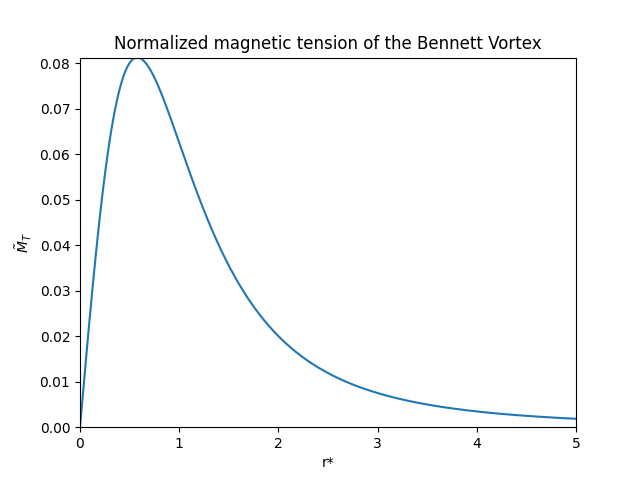
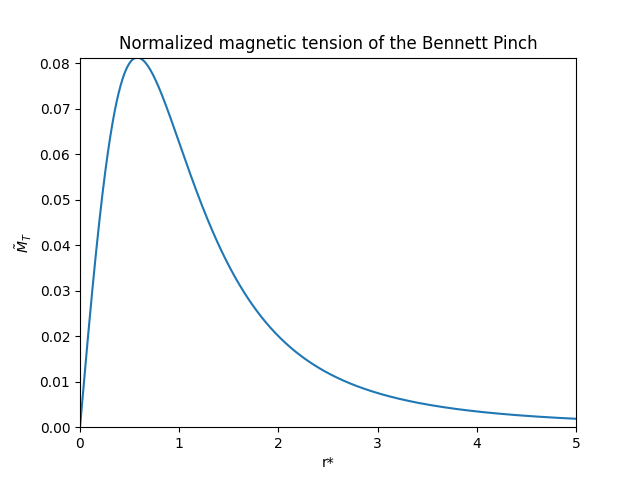
Fixing issue in python-based equilibrium cals

Changed region(s): [[0.1562, 0.0625, 0.8438, 0.125]]

diff --git a/python/bennett-vorticity/shear_flow.py b/python/bennett-vorticity/shear_flow.py
@@ -1,25 +1,27 @@
 import numpy as np
 import matplotlib.pyplot as plt
 
-'''
-Obtains plots for Bennett Vortex profiles
+r'''
+Obtains plots for Bennett Pinch profiles
 -
-PLEASE NOTE that \xi^{2} is related to an inverse temperature.  
+PLEASE note that \xi^{2} is related to an inverse temperature.  
 '''
+
 r_star = np.linspace(0.0, 5.0, num=1000)
 
+# All wrong because \\xi^{2} is no longer uniform
 # Normalized shear flow profile
-dudr = (r_star) / (1 + r_star**2)**3 # normalized by 4\xi
+# dudr = (r_star) / (1 + r_star**2)**3 # normalized by 4\xi
 
-shear_fig, shear_ax = plt.subplots()
-shear_ax.plot(r_star, dudr)
-shear_ax.set_xlabel('r*')
-shear_ax.set_ylabel('$\\tilde{S_{f}}$')
+# shear_fig, shear_ax = plt.subplots()
+# shear_ax.plot(r_star, dudr)
+# shear_ax.set_xlabel('r*')
+# shear_ax.set_ylabel('$\\tilde{S_{f}}$')
 
-shear_ax.set_xlim(r_star[0], r_star[-1])
-shear_ax.set_ylim(dudr[0], np.max(dudr))
+# shear_ax.set_xlim(r_star[0], r_star[-1])
+# shear_ax.set_ylim(dudr[0], np.max(dudr))
 
-shear_ax.set_title('Normalized flow shear of the Bennett Vortex')
+# shear_ax.set_title('Flow shear of the Bennett ')
 
 # Normalized current density
 jz_norm = -1.0 / (1.0 + r_star**2)**2
@@ -32,7 +34,7 @@ jz_ax.set_ylabel('$\\tilde{J}_{z}$')
 jz_ax.set_xlim(r_star[0], r_star[-1])
 jz_ax.set_ylim(0.0, np.min(jz_norm))
 
-jz_ax.set_title('Normalized current density of the Bennett Vortex')
+jz_ax.set_title('Normalized current density of the Bennett Pinch')
 
 # Normalized magnetic field and tension
 Btheta_norm = -0.5 * r_star / (1 + r_star**2)
@@ -46,7 +48,7 @@ Btheta_ax.set_ylabel('$\\tilde{B}_{\\theta}$')
 Btheta_ax.set_xlim(r_star[0], r_star[-1])
 Btheta_ax.set_ylim(0.0, np.min(Btheta_norm))
 
-Btheta_ax.set_title('Normalized magnetic field of the Bennett Vortex')
+Btheta_ax.set_title('Normalized magnetic field of the Bennett Pinch')
 
 Btens_fig, Btens_ax = plt.subplots()
 Btens_ax.plot(r_star, Btens_norm)
@@ -56,9 +58,9 @@ Btens_ax.set_ylabel('$\\tilde{M}_{T}$')
 Btens_ax.set_xlim(r_star[0], r_star[-1])
 Btens_ax.set_ylim(0.0, np.max(Btens_norm))
 
-Btens_ax.set_title('Normalized magnetic tension of the Bennett Vortex')
+Btens_ax.set_title('Normalized magnetic tension of the Bennett Pinch')
 
-# Normalized plasma pressure
+# Normalized plasma pressure - from Wolfram Mathematica
 p_norm = 1 - r_star**2 * (2.0 + r_star**2) / (1 + r_star**2)**2
 
 p_fig, p_ax = plt.subplots()
@@ -68,8 +70,7 @@ p_ax.set_ylabel('$\\tilde{p}$')
 
 p_ax.set_xlim(r_star[0], r_star[-1])
 p_ax.set_ylim(0.0, np.max(p_norm))
-
-p_ax.set_title('Normalized plasma pressure of the Bennett Vortex')
+p_ax.set_title('Normalized plasma pressure of the Bennett Pinch')
 
 # Normalized electric field
 E_norm = r_star / (1 + r_star**2)**3
@@ -82,6 +83,6 @@ E_ax.set_ylabel('$\\tilde{E}_{r}$')
 E_ax.set_xlim(r_star[0], r_star[-1])
 E_ax.set_ylim(0.0, np.max(E_norm))
 
-E_ax.set_title('Normalized electric field')
+E_ax.set_title('Normalized electric field of the Bennett Pinch')
 
 plt.show()

diff --git a/build/README.md b/build/README.md
@@ -38,9 +38,9 @@ Again, it has only been tested to work on the following configuration:
 
 Each of the dependencies listed above has instructions on their websites for how to obtain the software. 
 
-Currently, data is written out with Parallel HDF5 (PHDF5), and means for doing a serial write has not yet been implemented. 
+Currently, data is written out with Parallel HDF5 (PHDF5). The means for doing a serial write has not yet been implemented. 
 
-That means at present you will need PHDF5 installed in order to build, and run the software. 
+That means at present you will need PHDF5 installed on your system in order to build, and run the software. 
 
 ## How to Build
 After you have all the dependencies installed
@@ -58,7 +58,7 @@ Currently, only `ARCH_ONDEV` is end-to-end implemented. `make` will cause a set 
 
 ### Run Instructions
 `python simulation_launcher.py arch mode`
-- THIS FILE launches the simulation for whatever solver architecture `arch` that is specified, with or without an artificial diffusivity via `mode`, and using whatever configuration is specified by the data in `arch/input.inp`
+- THIS FILE launches the simulation for whatever solver architecture `arch` that is specified, with or without an artificial diffusivity via `mode`, and using whatever configuration is specified by the data in `arch/input.inp`. See the file `simulation_launcher.py` in this folder for the different inputs to `mode`.
 
 The above command reads the file `arch/input.inp` in the specified build folder (which is currently `on-device/`), and launches the simulation accordingly. 
 
